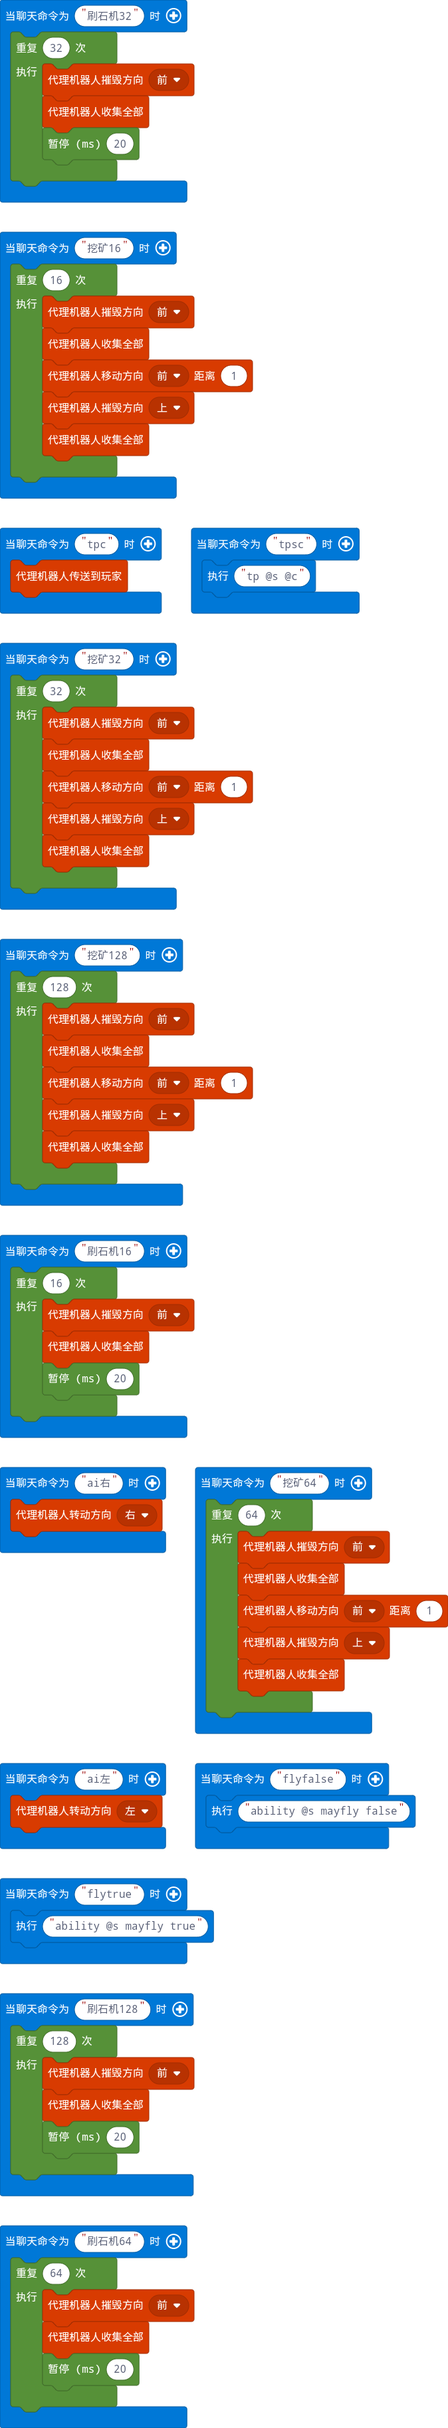
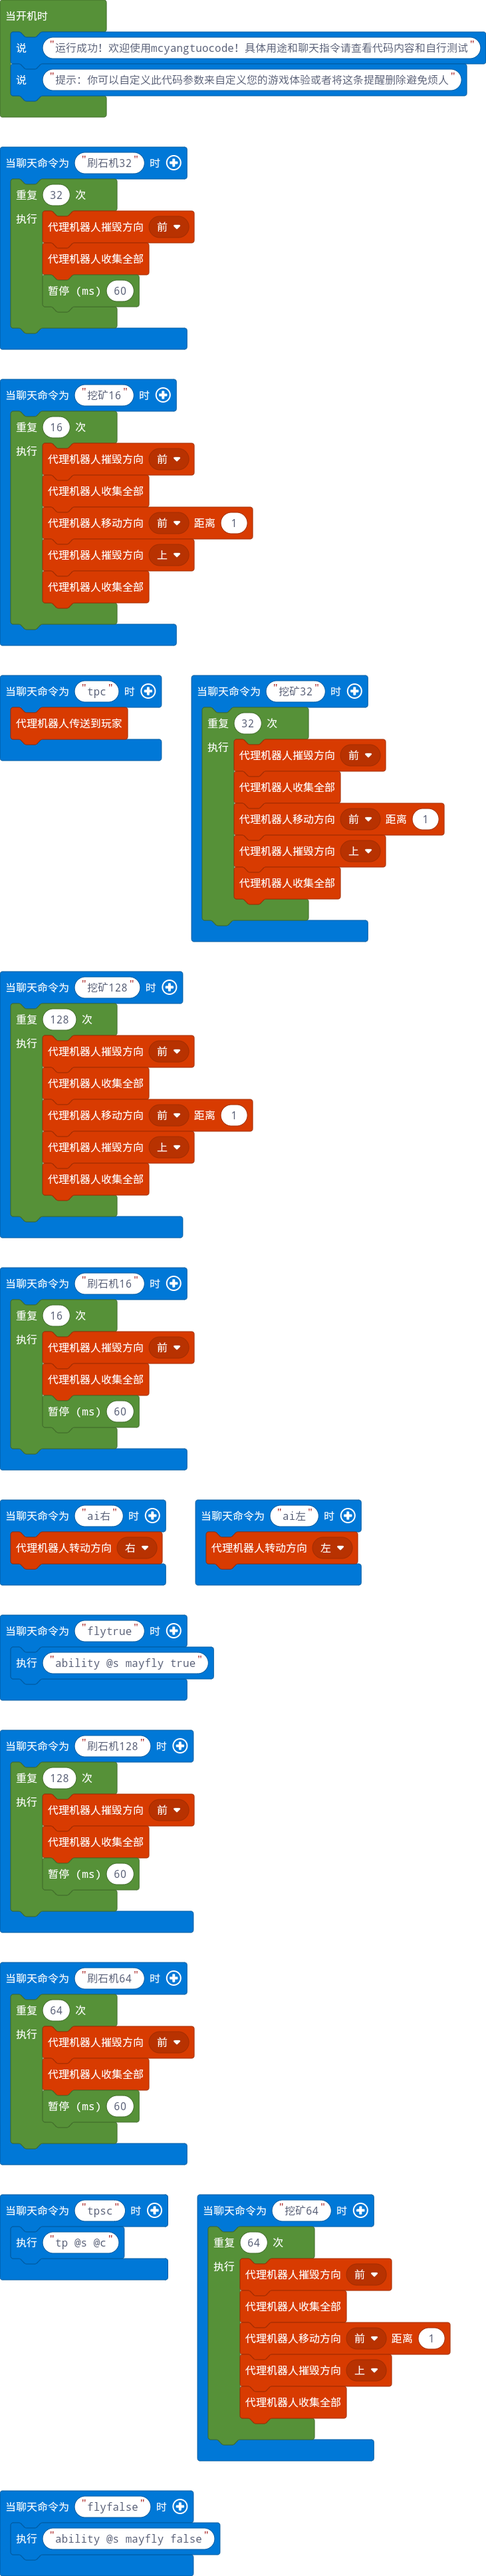
更新 main.blocks, main.ts

diff --git a/main.ts b/main.ts
@@ -2,7 +2,7 @@ player.onChat("刷石机32", function () {
     for (let index = 0; index < 32; index++) {
         agent.destroy(FORWARD)
         agent.collectAll()
-        loops.pause(20)
+        loops.pause(60)
     }
 })
 player.onChat("挖矿16", function () {
@@ -44,7 +44,7 @@ player.onChat("刷石机16", function () {
     for (let index = 0; index < 16; index++) {
         agent.destroy(FORWARD)
         agent.collectAll()
-        loops.pause(20)
+        loops.pause(60)
     }
 })
 player.onChat("ai右", function () {
@@ -76,13 +76,15 @@ player.onChat("刷石机128", function () {
     for (let index = 0; index < 128; index++) {
         agent.destroy(FORWARD)
         agent.collectAll()
-        loops.pause(20)
+        loops.pause(60)
     }
 })
 player.onChat("刷石机64", function () {
     for (let index = 0; index < 64; index++) {
         agent.destroy(FORWARD)
         agent.collectAll()
-        loops.pause(20)
+        loops.pause(60)
     }
 })
+player.say("运行成功！欢迎使用mcyangtuocode！具体用途和聊天指令请查看代码内容和自行测试")
+player.say("提示：你可以自定义此代码参数来自定义您的游戏体验或者将这条提醒删除避免烦人")
